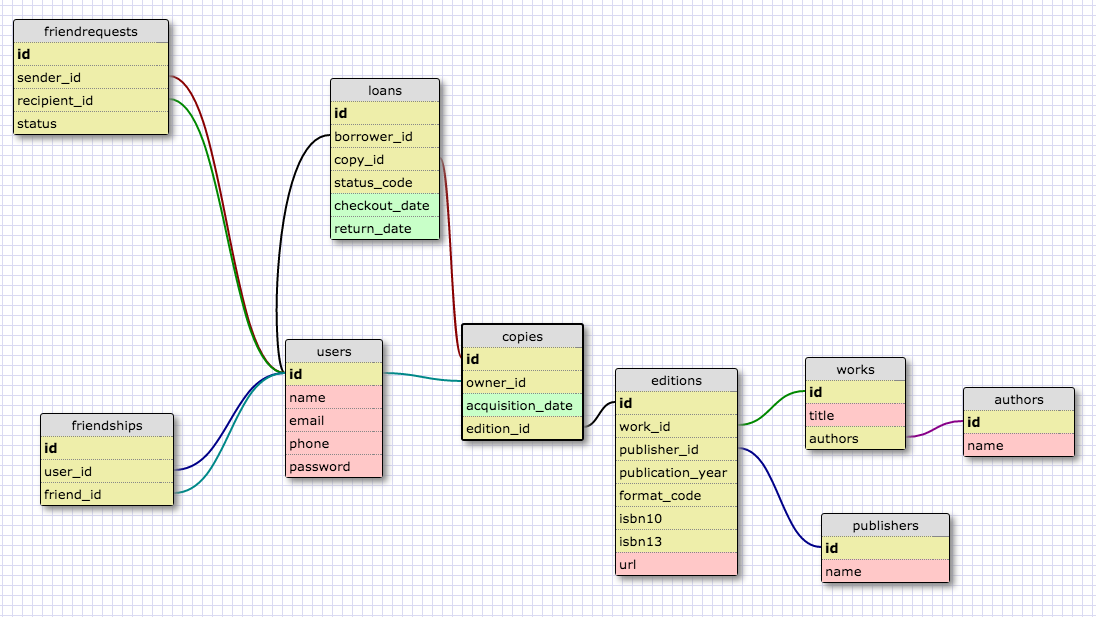
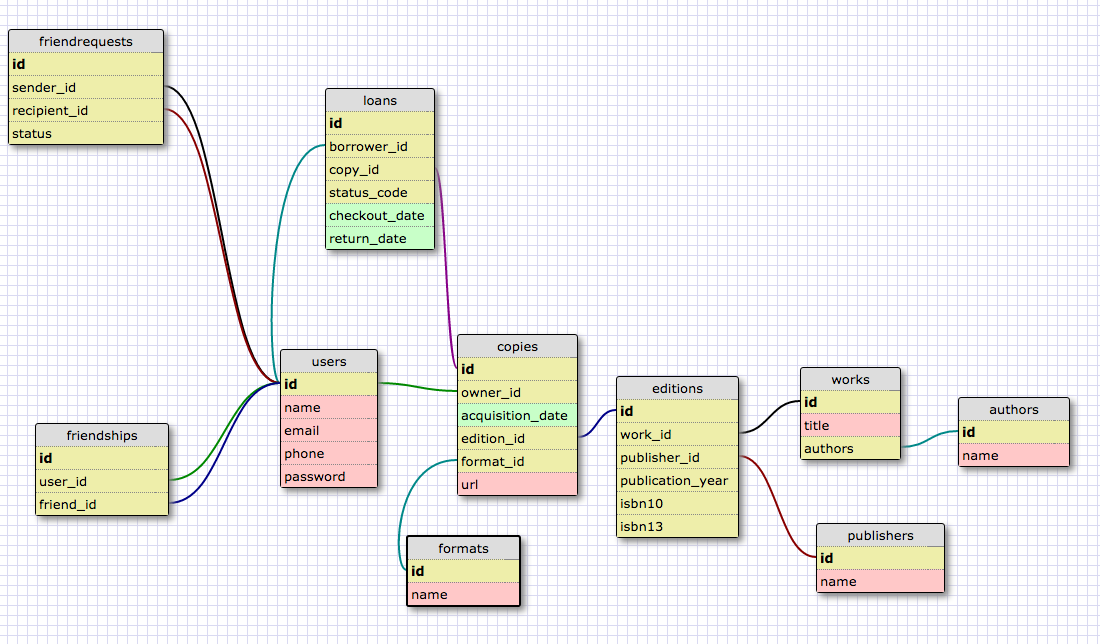
Move format type from Edition to Copy

diff --git a/db/schema.rb b/db/schema.rb
@@ -24,9 +24,11 @@ ActiveRecord::Schema.define(version: 20161103015606) do
     t.date     "acquisition_date"
     t.string   "url"
     t.integer  "edition_id"
+    t.integer  "format_id"
     t.datetime "created_at",       null: false
     t.datetime "updated_at",       null: false
     t.index ["edition_id"], name: "index_copies_on_edition_id", using: :btree
+    t.index ["format_id"], name: "index_copies_on_format_id", using: :btree
     t.index ["user_id"], name: "index_copies_on_user_id", using: :btree
   end
 
@@ -34,13 +36,18 @@ ActiveRecord::Schema.define(version: 20161103015606) do
     t.integer  "work_id"
     t.integer  "publisher_id"
     t.integer  "publication_year"
-    t.integer  "format"
     t.string   "isbn10"
     t.string   "isbn13"
     t.datetime "created_at",       null: false
     t.datetime "updated_at",       null: false
     t.index ["publisher_id"], name: "index_editions_on_publisher_id", using: :btree
     t.index ["work_id"], name: "index_editions_on_work_id", using: :btree
+  end
+
+  create_table "formats", force: :cascade do |t|
+    t.string   "name"
+    t.datetime "created_at", null: false
+    t.datetime "updated_at", null: false
   end
 
   create_table "friendrequests", force: :cascade do |t|
@@ -103,6 +110,7 @@ ActiveRecord::Schema.define(version: 20161103015606) do
   end
 
   add_foreign_key "copies", "editions"
+  add_foreign_key "copies", "formats"
   add_foreign_key "copies", "users"
   add_foreign_key "editions", "publishers"
   add_foreign_key "editions", "works"

diff --git a/app/controllers/copies_controller.rb b/app/controllers/copies_controller.rb
@@ -17,6 +17,7 @@ class CopiesController < ApplicationController
 
   def new
     @copy = Copy.new
+    @formats = Format.all
     if current_user != User.find(params[:user_id])
       redirect_to root_url
     end
@@ -81,11 +82,11 @@ class CopiesController < ApplicationController
   private
 
   def copy_params
-    params.require(:copy).permit(:user_id, :edition_id, :acquisition_date, :url)
+    params.require(:copy).permit(:user_id, :edition_id, :acquisition_date, :format_id, :url)
   end
 
   def edition_params
-    params.require(:edition).permit(:author_id, :work_id, :publisher_id, :publication_year, :format, :isbn10, :isbn13)
+    params.require(:edition).permit(:author_id, :work_id, :publisher_id, :publication_year, :isbn10, :isbn13)
   end
 
   def publisher_params

diff --git a/db/seeds.rb b/db/seeds.rb
@@ -5,3 +5,17 @@
 #
 #   movies = Movie.create([{ name: 'Star Wars' }, { name: 'Lord of the Rings' }])
 #   Character.create(name: 'Luke', movie: movies.first)
+
+formats = Format.create([
+  {name: 'paperback'},
+  {name: 'hardcover'},
+  {name: 'oversized'},
+  {name: 'comic - issue'},
+  {name: 'comic - volume'},
+  {name: 'zine'},
+  {name: 'digital - miscellaneous'},
+  {name: 'PDF'},
+  {name: 'ePub'},
+  {name: 'mobi / Kindle'},
+  {name: 'in-browser'}
+  ])

diff --git a/app/controllers/editions_controller.rb b/app/controllers/editions_controller.rb
@@ -59,7 +59,7 @@ class EditionsController < ApplicationController
   private
 
   def edition_params
-    params.require(:edition).permit(:author_id, :work_id, :publisher_id, :publication_year, :format, :isbn10, :isbn13)
+    params.require(:edition).permit(:author_id, :work_id, :publisher_id, :publication_year, :isbn10, :isbn13)
   end
 
   def publisher_params

diff --git a/app/models/edition.rb b/app/models/edition.rb
@@ -1,17 +1,9 @@
 class Edition < ApplicationRecord
   belongs_to :work
   belongs_to :publisher
-  # belongs_to :format
   has_many :authors, through: :work
   
   validates :work, presence: true
 
-  def format_type
-    case format
-    when 0
-      "print"
-    when 1
-      "digital"
-    end
-  end
+
 end

diff --git a/db/migrate/20160918012934_create_editions.rb b/db/migrate/20160918012934_create_editions.rb
@@ -4,7 +4,6 @@ class CreateEditions < ActiveRecord::Migration[5.0]
       t.references :work, foreign_key: true
       t.references :publisher, foreign_key: true
       t.integer :publication_year
-      t.integer :format # 0 - print, 1 - digital
       t.string :isbn10
       t.string :isbn13
 

diff --git a/spec/factories/authors.rb b/spec/factories/authors.rb
@@ -16,7 +16,6 @@ FactoryGirl.define do
     work
     publisher
     publication_year 1977
-    format 0
   end
 
   # rename this factory, create a second user
@@ -37,6 +36,7 @@ FactoryGirl.define do
   factory :copy do
     owner
     edition
+    format_id 1
   end
 
   factory :loan do

diff --git a/db/migrate/20160918013004_create_copies.rb b/db/migrate/20160918013004_create_copies.rb
@@ -5,7 +5,8 @@ class CreateCopies < ActiveRecord::Migration[5.0]
       t.date :acquisition_date
       t.string :url 
       t.references :edition, foreign_key: true
-
+      t.references :format, foreign_key: true
+      
       t.timestamps
     end
   end

diff --git a/app/models/copy.rb b/app/models/copy.rb
@@ -1,6 +1,7 @@
 class Copy < ApplicationRecord
   belongs_to :owner, foreign_key: "user_id",class_name: "User"
   belongs_to :edition
+  belongs_to :format
 
   validates :edition, presence: true
   validates :owner, presence: true

diff --git a/app/models/format.rb b/app/models/format.rb
@@ -1,4 +1,5 @@
 class Format < ApplicationRecord
-  # has_many :editions
-  validates :kind, presence: true
+  has_many :copies 
+
+  validates :name, presence: true, uniqueness: true
 end

diff --git a/db/migrate/20160918013002_create_formats.rb b/db/migrate/20160918013002_create_formats.rb
@@ -1,0 +1,8 @@
+class CreateFormats < ActiveRecord::Migration[5.0]
+  def change
+    create_table :formats do |t|
+      t.string :name
+      t.timestamps
+    end
+  end
+end

diff --git a/spec/models/format_spec.rb b/spec/models/format_spec.rb
@@ -1,0 +1,5 @@
+require 'rails_helper'
+
+RSpec.describe Format, type: :model do
+  pending "add some examples to (or delete) #{__FILE__}"
+end
